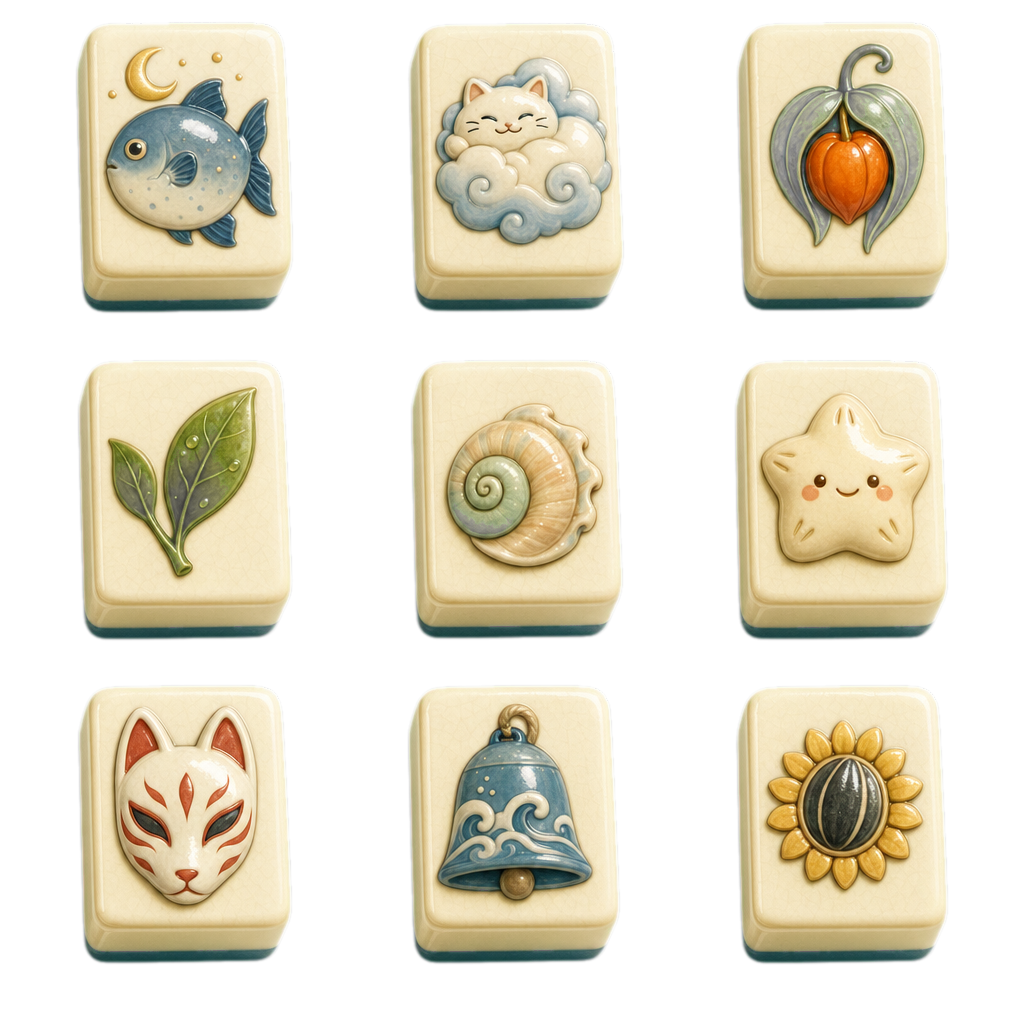
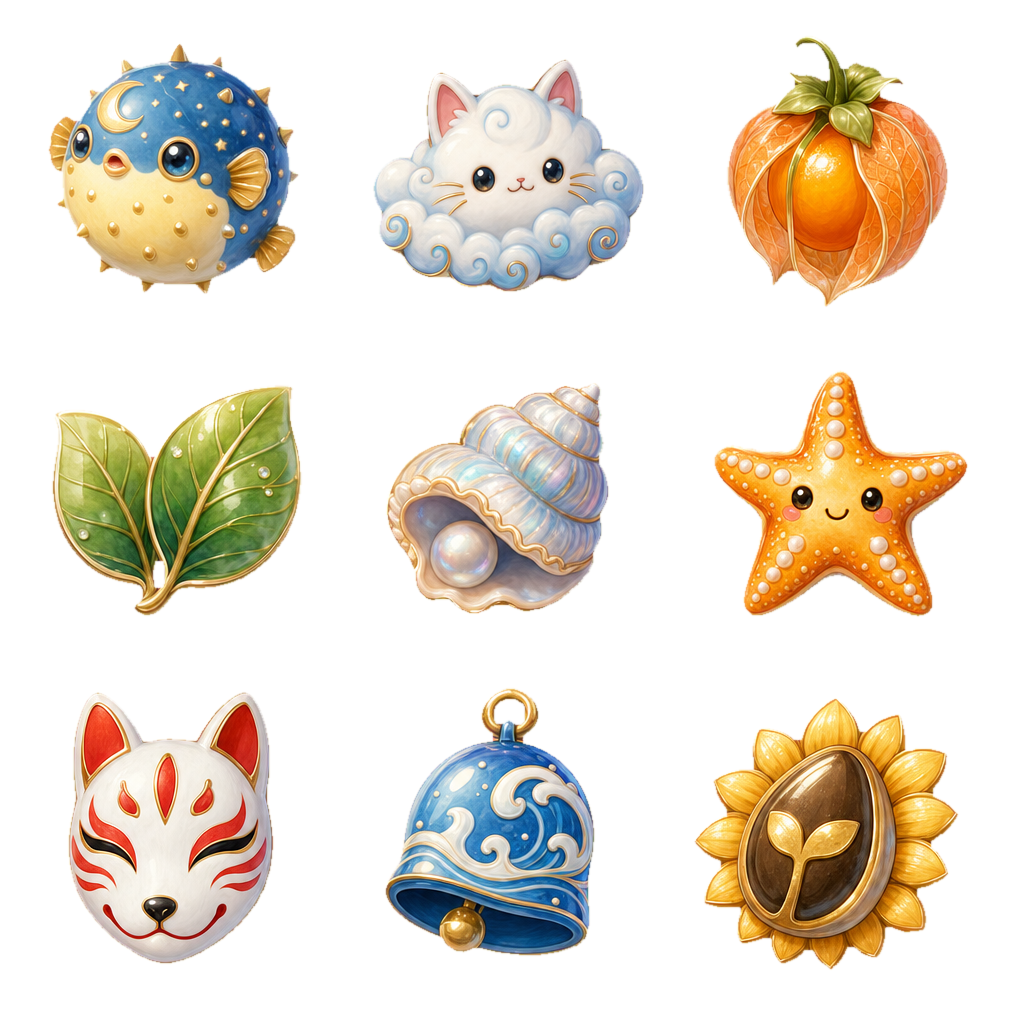
fix: rebuild mahjong tile art composition

diff --git a/src/server/game-runtimes/mahjong-roguelite.ts b/src/server/game-runtimes/mahjong-roguelite.ts
@@ -352,8 +352,31 @@ function drawMahjongTileBody(rect, tile, free, sealed) {
   ctx.strokeStyle = free ? "rgba(91,76,52,.46)" : "rgba(42,48,48,.58)";
   ctx.lineWidth = Math.max(2, rect.width * .018);
   ctx.stroke();
+  const faceGradient = ctx.createLinearGradient(rect.x, rect.y, rect.x + rect.width * .82, rect.y + rect.height);
+  faceGradient.addColorStop(0, sealed ? "#ead9cf" : free ? "#fffaf0" : "#ded5c5");
+  faceGradient.addColorStop(.62, sealed ? "#d8bfb3" : free ? "#f5e9cc" : "#c9c0af");
+  faceGradient.addColorStop(1, sealed ? "#c8aa9e" : free ? "#e7d5b2" : "#ada494");
+  ctx.fillStyle = faceGradient;
+  ctx.beginPath();
+  ctx.roundRect(rect.x, rect.y, rect.width, rect.height, radius);
+  ctx.fill();
+  ctx.strokeStyle = free ? "rgba(111,88,53,.58)" : "rgba(60,63,59,.58)";
+  ctx.lineWidth = Math.max(2, rect.width * .02);
+  ctx.stroke();
+  ctx.strokeStyle = free ? "rgba(255,255,248,.88)" : "rgba(246,241,226,.44)";
+  ctx.lineWidth = Math.max(1.5, rect.width * .014);
+  ctx.beginPath();
+  ctx.roundRect(rect.x + 5, rect.y + 5, rect.width - 10, rect.height - 10, Math.max(10, radius - 5));
+  ctx.stroke();
   ctx.restore();
   return depth;
+}
+
+function drawMahjongMotif(symbol, rect) {
+  const size = rect.width * .72;
+  const x = rect.x + (rect.width - size) / 2;
+  const y = rect.y + (rect.height - size) / 2 + rect.height * .018;
+  drawBitmapSprite(symbol, x, y, size, size, { fallback: "#d6a554", scale: 1 });
 }
 
 function drawMahjongCornerMarks(rect, color, lineWidth = 5) {
@@ -445,7 +468,7 @@ function drawMahjongRoguelite() {
     const tileDepth = drawMahjongTileBody(rect, tile, free, sealed);
     ctx.globalAlpha = free ? 1 : .76;
     ctx.filter = free ? "none" : "saturate(.5) brightness(.84)";
-    drawBitmapSprite(tile.symbol, rect.x, rect.y, rect.width, rect.height, { fallback: "#fff6de", scale: 1 });
+    drawMahjongMotif(tile.symbol, rect);
     ctx.filter = "none";
     if (!free) {
       ctx.globalAlpha = 1;
@@ -854,6 +877,9 @@ runtimeDebugState = () => ({
   boardLayout: mahjongLayout(),
   visualCueVersion: 3,
   layerCueVersion: 1,
+  assetCompositionVersion: 2,
+  tileBodySource: "canvas-single-layer",
+  spriteContent: "transparent-motif-only",
   selectionChangesGeometry: false,
   keyboardNavigation: mahjongKeyboardNavigation,
   hitAreas: mahjongHitAreas.map(({ tile, rect, depth }) => ({ id: tile.id, pairId: tile.pairId, z: tile.z, free: isMahjongTileFree(tile), depth, rect })),

diff --git a/src/server/browser-quality.ts b/src/server/browser-quality.ts
@@ -473,6 +473,7 @@ export async function inspectStageEInBrowser(root: string, template: StageETempl
     if (template === "mahjong-roguelite" && (routeOffer?.runtime?.routePoolSize ?? 0) < 5) throw new Error("月港雀旅路线池不足 5 条。 ");
     if (template === "mahjong-roguelite" && (initial?.runtime?.visualCueVersion ?? 0) < 3) throw new Error("月港雀旅没有用固定几何区分自由牌、被压牌、选中牌和配对目标。 ");
     if (template === "mahjong-roguelite" && ((initial?.runtime?.layerCueVersion ?? 0) < 1 || initial?.runtime?.selectionChangesGeometry !== false)) throw new Error("月港雀旅没有把牌堆层级与选中反馈分离。 ");
+    if (template === "mahjong-roguelite" && ((initial?.runtime?.assetCompositionVersion ?? 0) < 2 || initial?.runtime?.tileBodySource !== "canvas-single-layer" || initial?.runtime?.spriteContent !== "transparent-motif-only")) throw new Error("月港雀旅仍把牌坯烘焙在图案位图中，存在双重厚度风险。 ");
     if (template === "mahjong-roguelite" && (initial?.runtime?.boardLayout?.boardWidth ?? 0) < 600) throw new Error("月港雀旅牌桌仍未充分利用手机横向空间。 ");
     if (template === "mahjong-roguelite" && ((initial?.runtime?.freeCount ?? 0) < 2 || (initial?.runtime?.blockedCount ?? 0) < 1)) throw new Error("月港雀旅开局没有同时呈现可选牌与被压牌。 ");
     if (template === "mahjong-roguelite" && (!selectedCue?.runtime?.selectedId || (selectedCue.runtime.compatibleFreeCount ?? 0) < 1)) throw new Error("月港雀旅选牌后没有形成可辨认的配对目标。 ");

diff --git a/src/server/game-artifact.ts b/src/server/game-artifact.ts
@@ -1445,6 +1445,11 @@ function writeTemplateArtifact(root: string, project: ProjectDetail) {
       gameplayBackground: "./assets/background.png",
       sprites: Array.from({ length: 9 }, (_, index) => `./assets/sprites/sprite-${String(index + 1).padStart(2, "0")}.png`),
       cover: "./assets/cover.png",
+      ...(project.spec.template === "mahjong-roguelite" ? {
+        assetCompositionVersion: 2,
+        tileBodySource: "canvas-single-layer",
+        spriteContent: "transparent-motif-only",
+      } : {}),
     },
     userCustomization: project.spec.template === "puzzle"
       ? ["runtime-image-upload", "creation-image-upload"]
